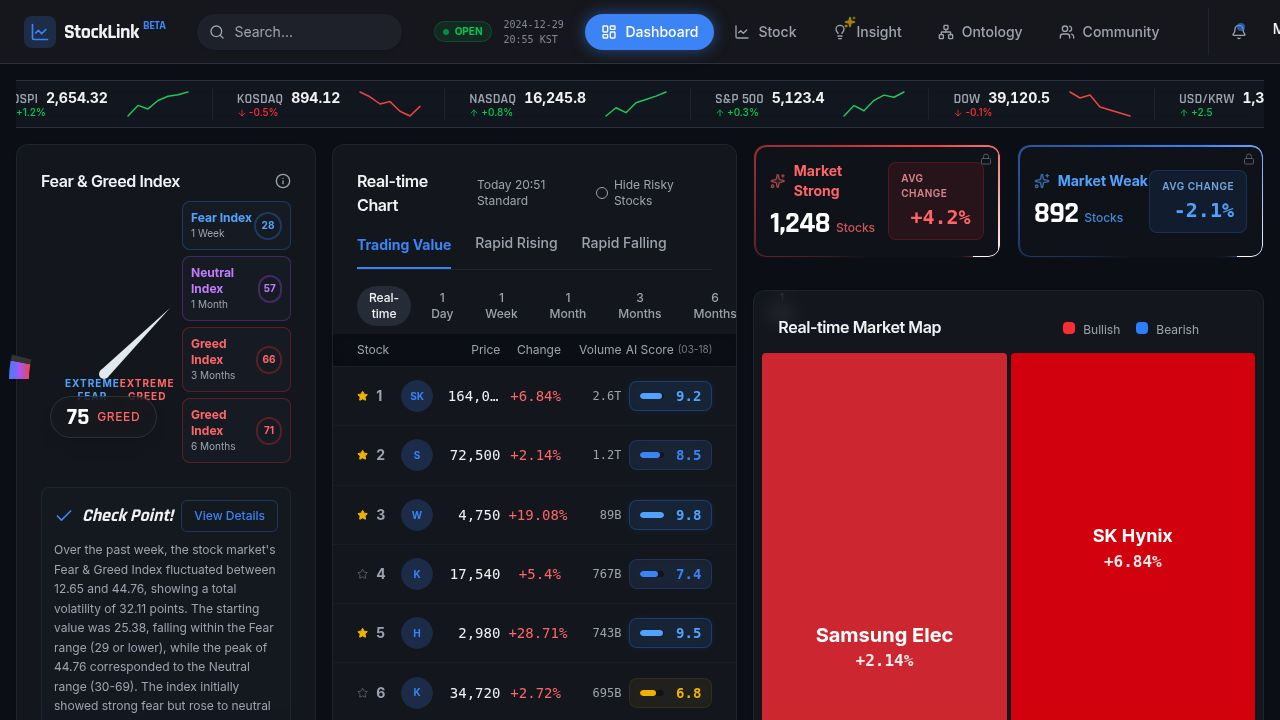
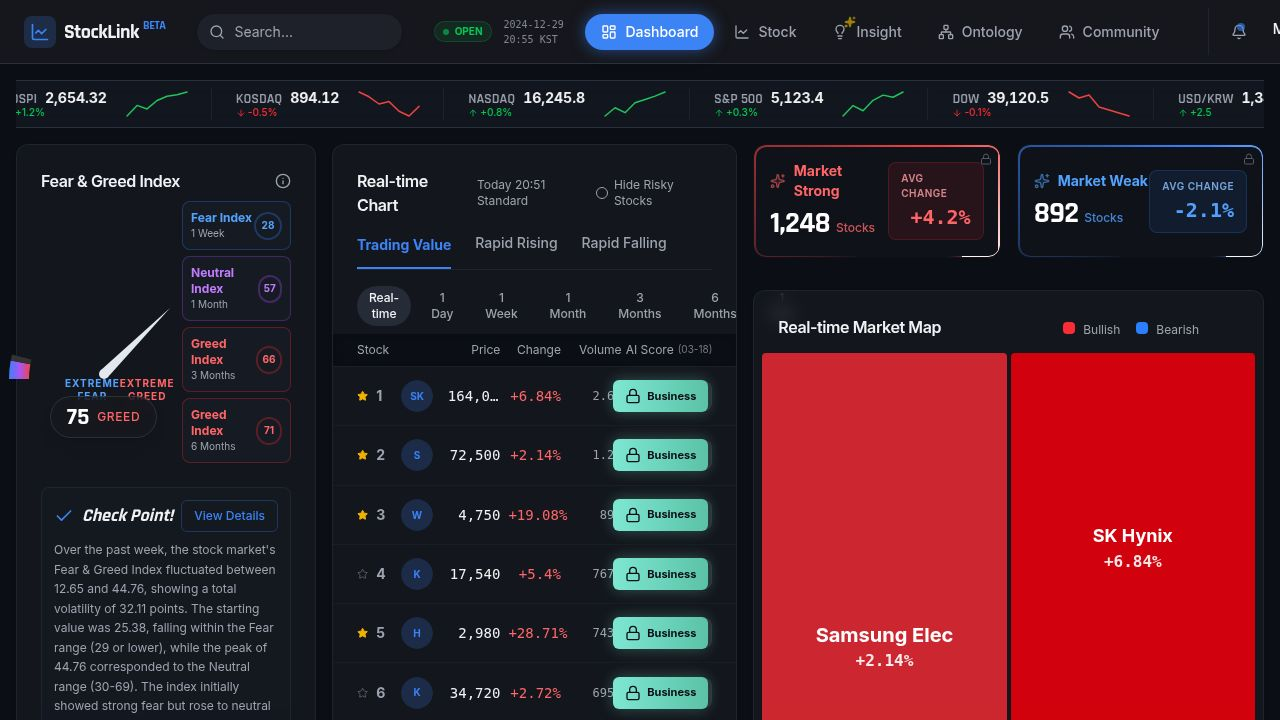
Make AI score section more visually appealing and encourage upgrades
Remove AI score blur and implement a prominent "Business" button with gradient and glow effects in RealTimeStockList.tsx.

Replit-Commit-Author: Agent
Replit-Commit-Session-Id: 48602bce-93d2-44d1-8d89-78bf80da5130
Replit-Commit-Checkpoint-Type: full_checkpoint
Replit-Commit-Event-Id: 9445f22d-738d-4a0b-829c-97816a81b086
Replit-Commit-Screenshot-Url: https://storage.googleapis.com/screenshot-production-us-central1/a443e579-0eec-4716-9714-1f3f39332136/48602bce-93d2-44d1-8d89-78bf80da5130/Rid0JrO
Replit-Helium-Checkpoint-Created: true

diff --git a/client/src/components/dashboard/RealTimeStockList.tsx b/client/src/components/dashboard/RealTimeStockList.tsx
@@ -117,47 +117,19 @@ export default function RealTimeStockList() {
                         {stock.volume}
                      </div>
 
-                     {/* AI Score Column */}
-                     <div className="col-span-4 md:col-span-3 flex items-center justify-end relative group/score">
-                        {/* Premium Block Overlay (shows on hover/always depending on auth state - currently mocked for mockup) */}
-                        <div className="absolute inset-0 z-10 flex items-center justify-end">
-                           <Button 
-                              onClick={() => window.location.hash = '/subscription'}
-                              size="sm" 
-                              className="h-7 bg-primary/20 hover:bg-primary/30 text-primary border border-primary/30 px-2 flex items-center gap-1 shadow-[0_0_15px_rgba(126,231,210,0.15)] rounded-md opacity-90 hover:opacity-100 transition-opacity"
-                           >
-                              <Lock className="w-3 h-3" />
-                              <span className="text-[10px] font-bold">Business Plan</span>
-                           </Button>
-                        </div>
-                        
-                        {/* Blurred Score Content */}
-                        <div className={cn(
-                           "flex items-center justify-between gap-3 py-1 px-2.5 rounded-lg border w-full max-w-[110px] backdrop-blur-md transition-all opacity-40 blur-[3px] select-none",
-                           stock.aiScore >= 9.0 ? "bg-blue-500/10 border-blue-500/30 shadow-[0_0_10px_rgba(59,130,246,0.1)]" :
-                           stock.aiScore >= 7.0 ? "bg-primary/10 border-primary/20" :
-                           stock.aiScore >= 5.0 ? "bg-yellow-500/5 border-yellow-500/10" :
-                           "bg-muted/10 border-white/5"
-                        )}>
-                           <div className="h-1.5 flex-1 bg-black/40 rounded-full overflow-hidden hidden sm:block max-w-[40px]">
-                              <div 
-                                 className={cn("h-full rounded-full", 
-                                    stock.aiScore >= 9.0 ? "bg-blue-400" :
-                                    stock.aiScore >= 7.0 ? "bg-primary" : 
-                                    stock.aiScore >= 5.0 ? "bg-yellow-500" : "bg-muted-foreground"
-                                 )} 
-                                 style={{ width: `${(stock.aiScore / 10) * 100}%` }}
-                              />
-                           </div>
-                           <span className={cn(
-                              "font-mono font-bold text-sm ml-auto",
-                              stock.aiScore >= 9.0 ? "text-blue-400" :
-                              stock.aiScore >= 7.0 ? "text-primary" : 
-                              stock.aiScore >= 5.0 ? "text-yellow-500" : "text-muted-foreground"
-                           )}>
-                              {stock.aiScore}
-                           </span>
-                        </div>
+                     {/* AI Score Column - Premium Locked */}
+                     <div className="col-span-4 md:col-span-3 flex items-center justify-end">
+                        <Button 
+                           onClick={(e) => {
+                              e.stopPropagation();
+                              window.location.hash = '/subscription';
+                           }}
+                           size="sm" 
+                           className="h-8 w-full max-w-[110px] bg-gradient-to-r from-[#7EE7D2] to-[#5BC2A8] hover:from-[#6CD6C1] hover:to-[#4AB197] text-[#0B0E14] border-none flex items-center justify-center gap-1.5 rounded-lg shadow-[0_0_10px_rgba(126,231,210,0.2)] hover:shadow-[0_0_20px_rgba(126,231,210,0.4)] transition-all font-bold group-hover:-translate-y-0.5"
+                        >
+                           <Lock className="w-3.5 h-3.5" />
+                           <span className="text-xs">Business</span>
+                        </Button>
                      </div>
                   </div>
                ))}
